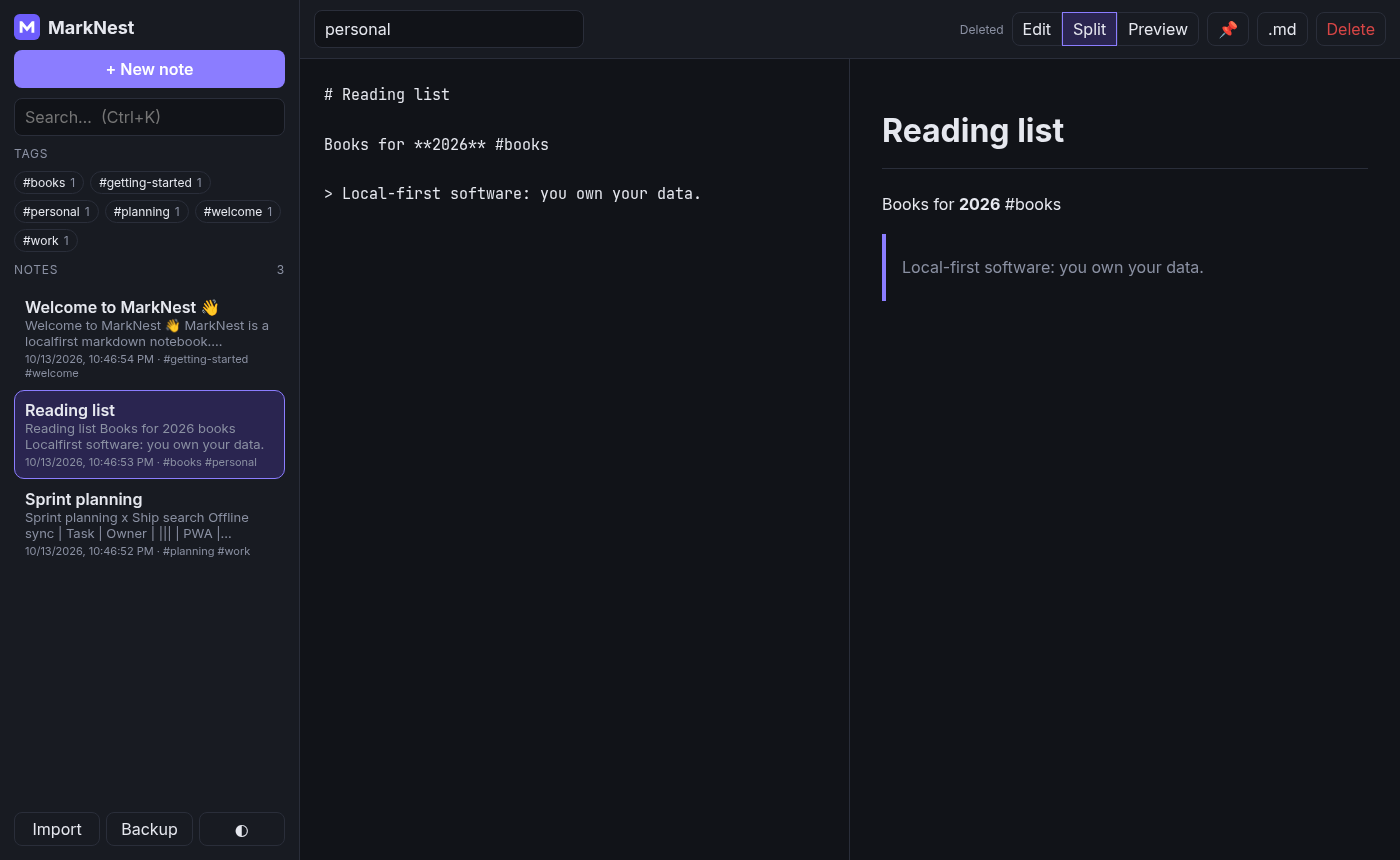
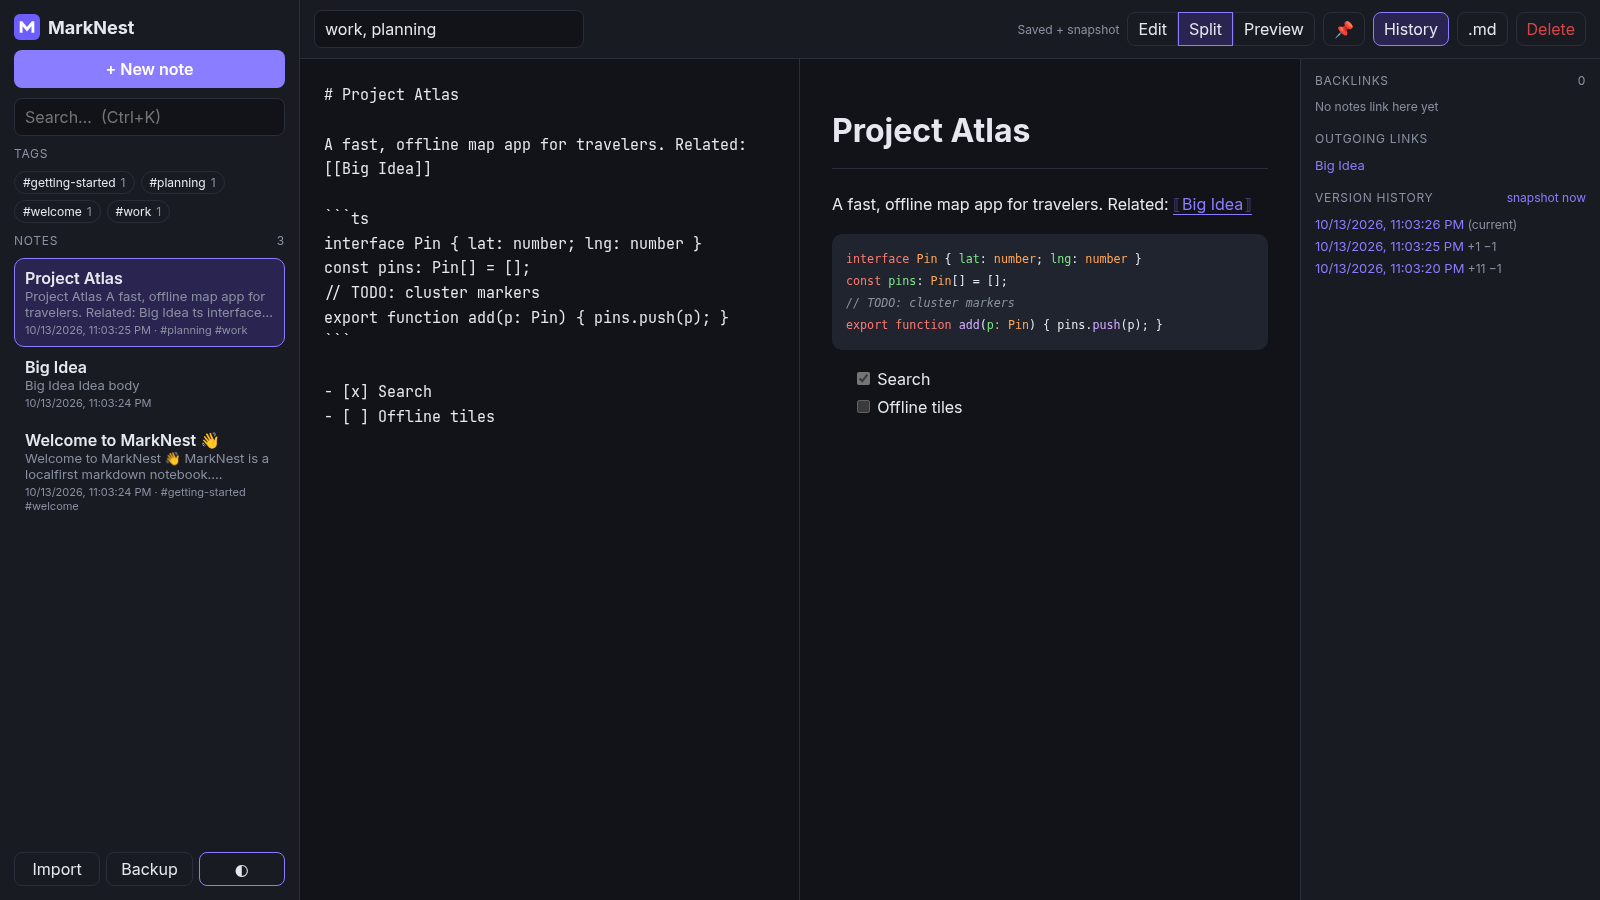
docs: document wiki links, highlighting and version history; refresh screenshots

diff --git a/README.md b/README.md
@@ -10,9 +10,11 @@ No account. No server. No tracking. Your notes never leave your device.
 
 ![TypeScript](https://img.shields.io/badge/TypeScript-strict-3178c6)
 ![License: MIT](https://img.shields.io/badge/license-MIT-green)
-![Bundle](https://img.shields.io/badge/gzip-~31%20kB-6d5dfc)
+![Bundle](https://img.shields.io/badge/gzip-~60%20kB-6d5dfc)
 
 <img src="docs/screenshot-light.png" alt="MarkNest light theme" width="49%" /> <img src="docs/screenshot-dark.png" alt="MarkNest dark theme" width="49%" />
+
+<img src="docs/screenshot-history.png" alt="Version history with diff" width="80%" />
 
 </div>
 
@@ -20,6 +22,9 @@ No account. No server. No tracking. Your notes never leave your device.
 
 - **Live markdown editor** with edit / split / preview modes and GitHub-flavored markdown (tables, task lists, code blocks).
 - **Safe rendering**: output goes through [DOMPurify](https://github.com/cure53/DOMPurify) plus extra rules. Scripts, event handlers, `javascript:` / `vbscript:` URLs, iframes, forms and inline styles are stripped, links get `rel="noopener noreferrer nofollow"`, and a strict Content-Security-Policy is applied.
+- **`[[Wiki links]]`** between notes. Type `[[` to get title autocomplete; `[[Title|label]]` sets custom text. Clicking a link opens the note, or creates it if it doesn't exist yet (missing links are shown dashed in red). A **backlinks panel** lists every note that links to the current one, and **renaming a note rewrites links to it** across all notes (custom labels are kept, and code blocks are never touched).
+- **Syntax highlighting** for code blocks via [highlight.js](https://highlightjs.org/) core with 14 common languages (JS/TS, Python, Go, Rust, Java, C/C++, SQL, Bash, JSON, YAML, CSS, HTML, Markdown). It emits plain `<span class="hljs-*">` markup that is still passed through DOMPurify, and the colors are CSS variables so both themes look right.
+- **Per-note version history**: snapshots are taken on save (at most one every 5 minutes, or on demand with <kbd>Ctrl</kbd>+<kbd>S</kbd>), capped at 50 per note. The history panel shows timestamps and `+added −removed` line counts, a line-by-line **diff** or rendered **preview** of any version, and **one-click restore** (the current state is snapshotted first, so restores are undoable). History lives in its own IndexedDB store; existing v1 databases are migrated in place without touching notes.
 - **Fast full-text search** using an in-memory inverted index with prefix matching, diacritic folding and title/tag weighting. The query syntax supports:
   - `react hooks`: all words must match (prefixes count, so `plan` finds *planning*)
   - `"exact phrase"`
@@ -28,9 +33,9 @@ No account. No server. No tracking. Your notes never leave your device.
 - **Tags** from a tag field or inline `#hashtags`, with tag cloud filtering (AND logic) and nested tags (`#work` also matches `#work/client`).
 - **IndexedDB persistence** with debounced autosave. The app also requests persistent storage so the browser doesn't evict your notes.
 - **Works fully offline** as an installable PWA. The service worker precaches every built asset.
-- **Import / export**: download single notes as `.md` with front matter, back up everything to JSON, and import `.md` files or JSON backups. Imports merge by note id, and the newer edit wins.
+- **Import / export**: download single notes as `.md` with front matter, back up everything (including version history) to JSON, and import `.md` files or JSON backups. Imports merge by note id, and the newer edit wins.
 - **Dark / light theme** (follows your system by default), **pinned notes**, a **responsive** mobile layout and **keyboard shortcuts**.
-- Only **2 runtime dependencies** (`marked`, `dompurify`) and about 31 kB gzipped.
+- Only **4 small runtime dependencies** (`marked`, `marked-highlight`, `highlight.js` core, `dompurify`), about 60 kB of JS gzipped.
 
 ## ⌨ Keyboard shortcuts
 
@@ -38,7 +43,9 @@ No account. No server. No tracking. Your notes never leave your device.
 |---|---|
 | <kbd>Alt</kbd>+<kbd>N</kbd> | New note |
 | <kbd>Ctrl</kbd>/<kbd>⌘</kbd>+<kbd>K</kbd> | Focus search |
-| <kbd>Ctrl</kbd>+<kbd>S</kbd> | Save now |
+| <kbd>Ctrl</kbd>+<kbd>S</kbd> | Save now and take a snapshot |
+| <kbd>[[</kbd> | Link to a note (↑/↓ + Enter/Tab to pick) |
+| <kbd>Alt</kbd>+<kbd>H</kbd> | Toggle links & history panel |
 | <kbd>Ctrl</kbd>+<kbd>Shift</kbd>+<kbd>S</kbd> | Download note as `.md` |
 | <kbd>Ctrl</kbd>+<kbd>E</kbd> | Cycle edit → split → preview |
 | <kbd>Ctrl</kbd>+<kbd>B</kbd> / <kbd>I</kbd> | Bold / italic selection |
@@ -96,16 +103,28 @@ git add .github && git commit -m "ci: enable workflows" && git push
 src/
   core/
     markdown.ts   # marked + DOMPurify rendering, URL allow-list, title derivation
+    highlight.ts  # highlight.js core + registered languages
+    wikilinks.ts  # [[link]] parsing, backlinks, rename rewriting, autocomplete
+    diff.ts       # line-based LCS diff for version history
     search.ts     # inverted index, query parser, snippets
     tags.ts       # tag normalization, inline #hashtag extraction, filtering
-    storage.ts    # IndexedDB NoteStore, JSON backup, .md import/export, merge
+    storage.ts    # IndexedDB NoteStore (v2 schema: notes + history), snapshots, backup, import/export
   main.ts         # UI wiring (vanilla TypeScript, no framework)
 public/
   sw.js           # offline service worker (asset list injected at build)
 tests/            # unit tests for each core module
 ```
 
-The core modules have no DOM dependencies beyond DOMPurify and IndexedDB, and they're covered by unit tests, including an XSS payload suite and a 5,000-note search benchmark.
+The core modules have no DOM dependencies beyond DOMPurify and IndexedDB, and they're covered by unit tests, including an XSS payload suite, a 5,000-note search benchmark, wiki-link rename edge cases, snapshot throttling/capping and a v1→v2 IndexedDB migration test.
+
+### Data model
+
+| Store | Key | Contents |
+|---|---|---|
+| `notes` | `id` | `{ id, title, body, tags, createdAt, updatedAt, pinned? }` |
+| `history` (v2) | `id`, index `noteId` | `{ id, noteId, title, body, tags, savedAt }` |
+
+JSON backups are `version: 2` with `notes` and `history`; version 1 backups still import.
 
 ## 🔒 Privacy
 
@@ -114,10 +133,9 @@ All data stays in your browser's IndexedDB. Nothing is sent over the network, an
 ## 🗺 Roadmap
 
 - Optional end-to-end encrypted sync (e.g. to a WebDAV or a GitHub Gist)
-- Wiki-style `[[links]]` and backlinks
-- Syntax highlighting in code blocks
-- A CodeMirror editor with markdown shortcuts
-- Note history / version snapshots
+- A CodeMirror editor with markdown and code highlighting while typing
+- Graph view of linked notes
+- Word-level diffs and history retention settings
 
 ## 📄 License
 
